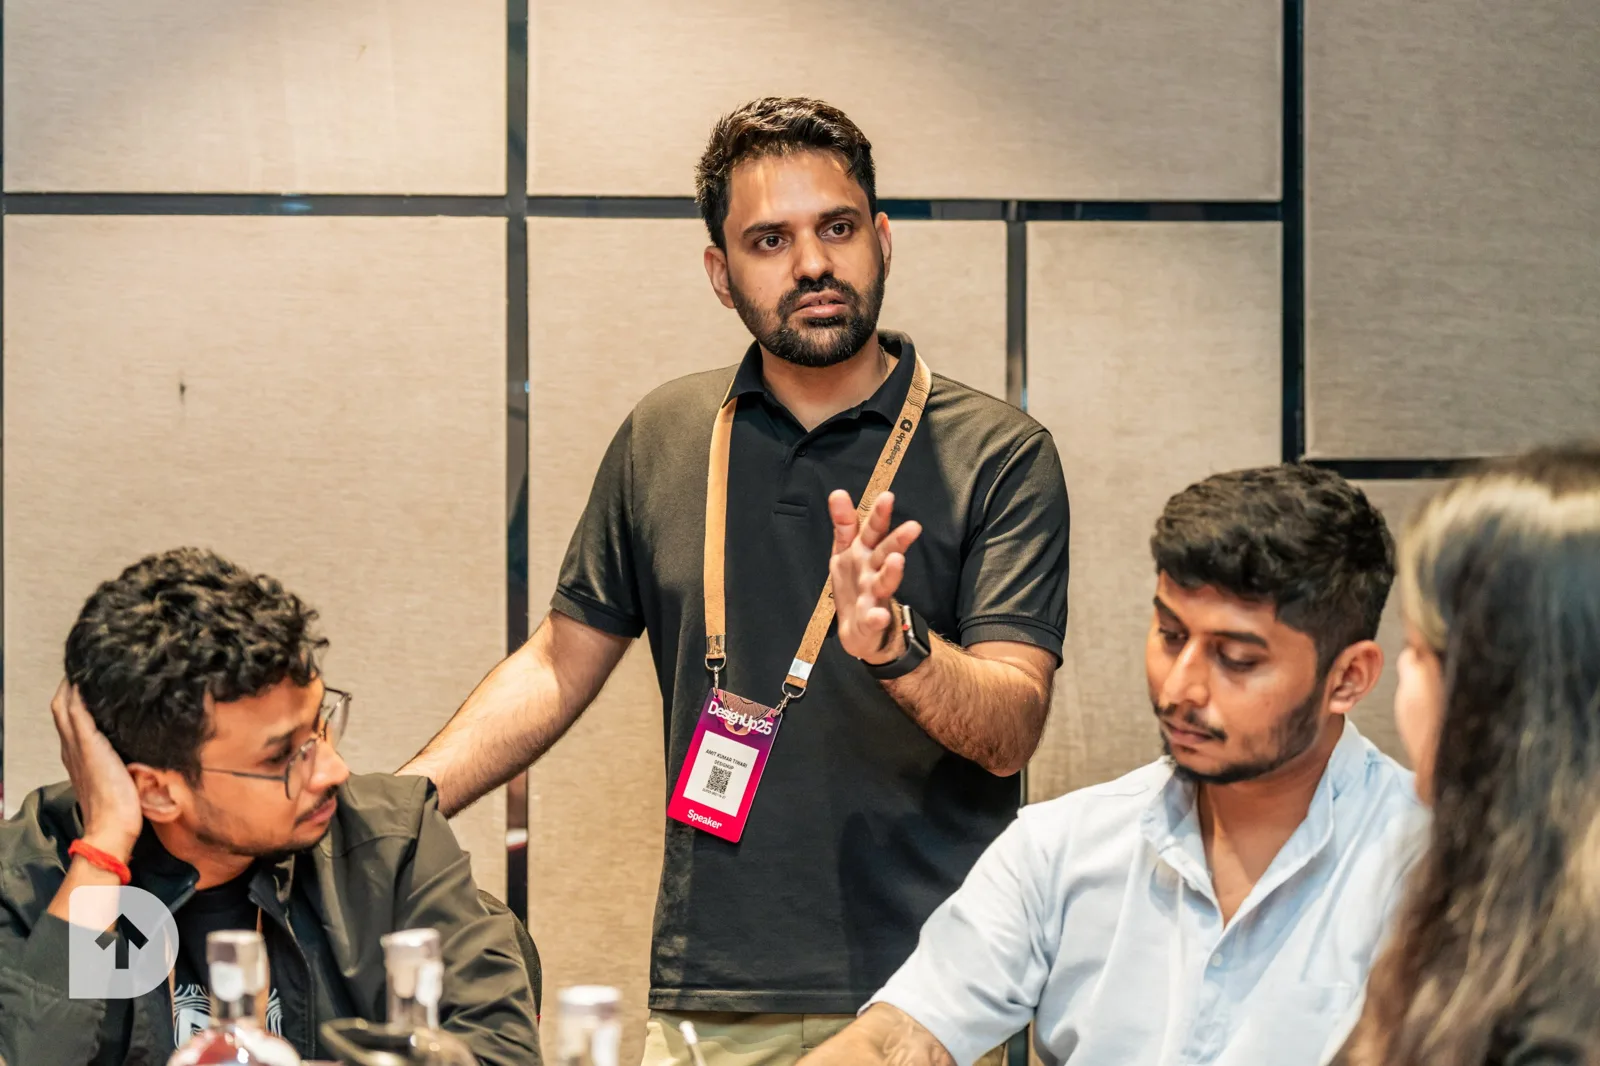
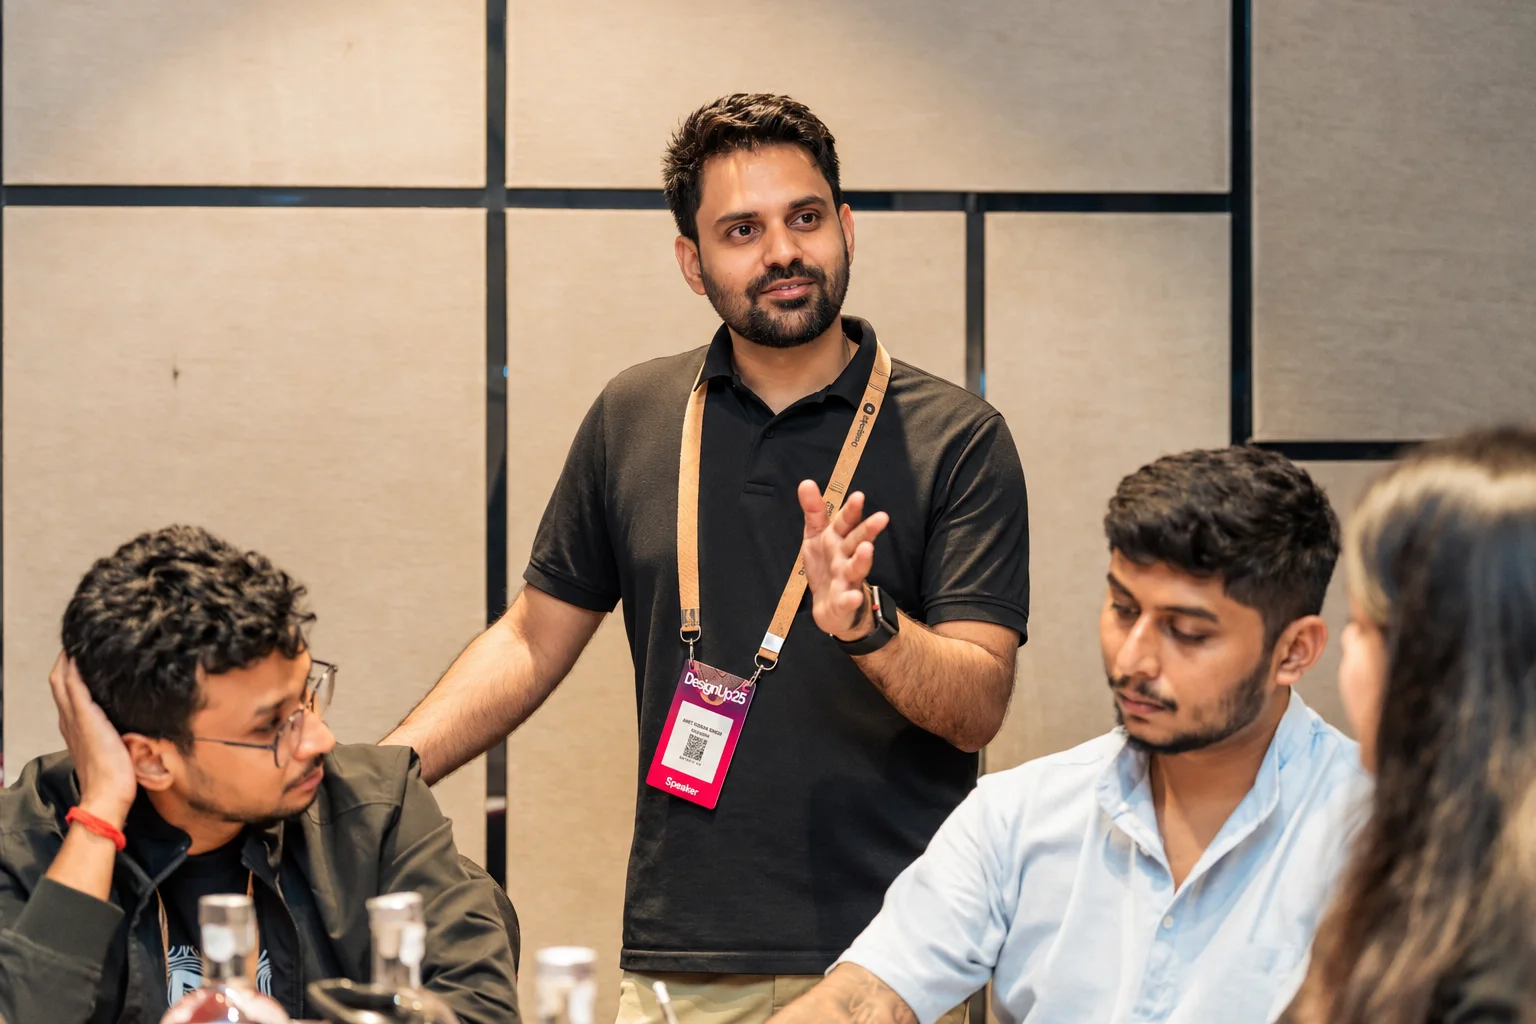
Case study short pages: animated preview, watch-video modal, NDA gate for AI Search; new DesignUp workshop photo
Claude-Session: https://claude.ai/code/session_019w2zt4LnTxjnuLeFmr6vDP

diff --git a/src/pages/PlaybackPage.tsx b/src/pages/PlaybackPage.tsx
@@ -1,4 +1,4 @@
-import { Fragment } from 'react'
+import { Fragment, useState } from 'react'
 import { Link, Navigate, useParams } from 'react-router-dom'
 import Mark, { markForCase } from '../components/marks/Marks'
 import Breadcrumb from '../components/ds/Breadcrumb'
@@ -9,6 +9,8 @@ import ProcessFlow from '../components/playback/ProcessFlow'
 import { TagList } from '../components/ds/Tag'
 import { caseStudies } from '../data/work'
 import { playbackById } from '../data/playbacks'
+import { films } from '../data/films'
+import VideoModal from '../components/ui/VideoModal'
 
 const Arrow = () => (
   <svg width="16" height="16" viewBox="0 0 16 16" fill="none" stroke="currentColor" strokeWidth="1.5" aria-hidden="true"><path d="M3 8h10M9 4l4 4-4 4" strokeLinecap="round" strokeLinejoin="round" /></svg>
@@ -20,9 +22,11 @@ export default function PlaybackPage() {
   const { id } = useParams<{ id: string }>()
   const cs = caseStudies.find(c => c.id === id)
   const pb = id ? playbackById(id) : undefined
+  const [watching, setWatching] = useState(false)
   if (!cs || !pb) return <Navigate to="/craft" replace />
 
   const detail = `/craft/${cs.id}/details`
+  const film = films[cs.id]
   const beats: [string, string][] = [
     ['What it is', pb.beats.about],
     ['The challenge', pb.beats.challenge],
@@ -46,7 +50,7 @@ export default function PlaybackPage() {
           </div>
           <h1 className="text-ink font-serif" style={{ fontSize: 'clamp(1.8rem, 3.5vw, 3.1rem)', lineHeight: 1.1, letterSpacing: '-0.02em', textWrap: 'balance' }}>{pb.headline}</h1>
           <p className="text-body-lg text-ink-2 mt-6 max-w-2xl">{pb.dek}</p>
-          <div className="mt-10"><CaseThumb id={cs.id} ratio="1800 / 1000" /></div>
+          <div className="mt-10"><CaseThumb id={cs.id} ratio="1800 / 1000" live /></div>
           <div className="mt-8 flex flex-wrap items-center gap-x-8 gap-y-4">
             <p className="text-label text-ink-3">{meta.join(' · ')}</p>
             {cs.tags && <TagList items={cs.tags.slice(0, 3)} label="Topics" />}
@@ -84,13 +88,14 @@ export default function PlaybackPage() {
       {/* One component with the footer: it stays at the bottom of the screen while scrolling, then settles into the footer. */}
       <div className="sticky bottom-0 z-30 border-t bg-bg" style={{ borderColor: 'var(--line-1)', paddingBottom: 'env(safe-area-inset-bottom, 0px)' }}>
         <div className="container-site py-3 md:py-4 flex items-center justify-between gap-4">
-          <p className="text-body-sm md:text-body text-ink-2 min-w-0">
-            <span className="sm:hidden">Want to explore the full story?</span>
-            <span className="hidden sm:inline">Want to get inside the messy process, explore the screens, and understand the design decisions?</span>
-          </p>
-          <Link to={detail} className="btn btn-primary !py-2 shrink-0 whitespace-nowrap">View Detailed Case Study<Arrow /></Link>
+          <p className="hidden md:block text-body text-ink-2 min-w-0">Want to get inside the messy process, explore the screens, and understand the design decisions?</p>
+          <div className="flex items-center gap-3 w-full md:w-auto md:shrink-0">
+            {film && <button type="button" onClick={() => setWatching(true)} className="btn btn-secondary !py-2 whitespace-nowrap flex-1 md:flex-none justify-center">Watch the video</button>}
+            <Link to={detail} className="btn btn-primary !py-2 whitespace-nowrap flex-1 md:flex-none justify-center"><span className="md:hidden">Detailed case study</span><span className="hidden md:inline">View Detailed Case Study</span><Arrow /></Link>
+          </div>
         </div>
       </div>
+      {watching && film && <VideoModal src={film.to} title={film.title} onClose={() => setWatching(false)} />}
     </article>
   )
 }

diff --git a/src/components/ds/CaseThumb.tsx b/src/components/ds/CaseThumb.tsx
@@ -8,7 +8,7 @@ const B = import.meta.env.BASE_URL
  *  While the link around it is hovered or keyboard-focused, a short animated preview of the prototype fades in over it;
  *  when interaction ends the preview fades out and is removed, so the cover is restored and nothing runs at rest.
  *  Reduced-motion visitors and touch devices keep the still cover. */
-export default function CaseThumb({ id, className = '', ratio = '1800 / 1000', compact = false, flush = false }: { id: string; className?: string; ratio?: string; compact?: boolean; /** No corner radius of its own: the parent card clips it. */ flush?: boolean }) {
+export default function CaseThumb({ id, className = '', ratio = '1800 / 1000', compact = false, flush = false, live = false }: { id: string; className?: string; ratio?: string; compact?: boolean; /** No corner radius of its own: the parent card clips it. */ flush?: boolean; /** The animated preview plays all the time, once the cover is on screen (still cover for reduced motion). */ live?: boolean }) {
   const t = thumbs[id]
   const root = useRef<HTMLDivElement>(null)
   const [mounted, setMounted] = useState(false)
@@ -16,6 +16,18 @@ export default function CaseThumb({ id, className = '', ratio = '1800 / 1000', c
   const timer = useRef<number>(0)
 
   useEffect(() => {
+    if (!live || !t) return
+    const el = root.current
+    if (!el || window.matchMedia('(prefers-reduced-motion: reduce)').matches) return
+    const io = new IntersectionObserver(([e]) => {
+      if (e.isIntersecting) { setMounted(true); requestAnimationFrame(() => requestAnimationFrame(() => setShown(true))); io.disconnect() }
+    }, { rootMargin: '120px' })
+    io.observe(el)
+    return () => io.disconnect()
+  }, [live, t])
+
+  useEffect(() => {
+    if (live) return
     const host = root.current?.closest('a')
     if (!host || !t) return
     const reduce = window.matchMedia('(prefers-reduced-motion: reduce)')
@@ -27,7 +39,7 @@ export default function CaseThumb({ id, className = '', ratio = '1800 / 1000', c
     host.addEventListener('pointerenter', enter); host.addEventListener('pointerleave', leave)
     host.addEventListener('focus', focus); host.addEventListener('blur', stop)
     return () => { host.removeEventListener('pointerenter', enter); host.removeEventListener('pointerleave', leave); host.removeEventListener('focus', focus); host.removeEventListener('blur', stop); window.clearTimeout(timer.current) }
-  }, [t])
+  }, [t, live])
 
   if (!t) return null
   const src = `${B}images/covers/${id}`
@@ -38,7 +50,7 @@ export default function CaseThumb({ id, className = '', ratio = '1800 / 1000', c
       {mounted && (
         <div className="absolute inset-0 transition-opacity duration-500 ease-out" style={{ opacity: shown ? 1 : 0 }}>
           <AnimThumb id={t.loop} />
-          {!compact && <span className="absolute left-4 top-4 z-10 inline-flex items-center gap-2 rounded-full bg-black/55 px-3 py-1.5 font-mono text-[0.6875rem] uppercase tracking-[0.12em] text-white backdrop-blur"><span className="h-1.5 w-1.5 rounded-full bg-[#C8F55A]" />Preview</span>}
+          {!compact && !live && <span className="absolute left-4 top-4 z-10 inline-flex items-center gap-2 rounded-full bg-black/55 px-3 py-1.5 font-mono text-[0.6875rem] uppercase tracking-[0.12em] text-white backdrop-blur"><span className="h-1.5 w-1.5 rounded-full bg-[#C8F55A]" />Preview</span>}
         </div>
       )}
     </div>

diff --git a/src/film/Player.tsx b/src/film/Player.tsx
@@ -16,6 +16,7 @@ export default function Player({ title, chapters, render, backTo, backLabel, sub
   })
   clockRef.current = clock
   const { t, playing, play, pause, seek } = clock
+  const embed = new URLSearchParams(window.location.search).get('embed') === '1'
   const [muted, setMuted] = useState(false)
   const [started, setStarted] = useState(false)
   const wrap = useRef<HTMLDivElement>(null)
@@ -51,9 +52,9 @@ export default function Player({ title, chapters, render, backTo, backLabel, sub
   const full = () => { const el = wrap.current?.parentElement; if (!el) return; if (document.fullscreenElement) void document.exitFullscreen(); else void el.requestFullscreen() }
 
   return (
-    <main id="main" className="min-h-screen" style={{ paddingTop: 'var(--header-h)' }}>
-      <div className="container-site pt-8 pb-16">
-        <div className="flex items-end justify-between gap-6 mb-6 flex-wrap">
+    <main id="main" className={embed ? '' : 'min-h-screen'} style={embed ? undefined : { paddingTop: 'var(--header-h)' }}>
+      <div className={embed ? '' : 'container-site pt-8 pb-16'}>
+        <div className={`flex items-end justify-between gap-6 mb-6 flex-wrap${embed ? ' hidden' : ''}`}>
           <div>
             <p className="text-overline text-ink-3 mb-2">Film · {length}</p>
             <h1 className="text-display-l text-ink">{title}</h1>
@@ -62,7 +63,7 @@ export default function Player({ title, chapters, render, backTo, backLabel, sub
           <Link to={backTo} className="link text-body-sm">{backLabel}</Link>
         </div>
 
-        <div className="relative rounded-3 overflow-hidden" style={{ background: C.bg, border: `1px solid ${C.line}` }}>
+        <div className={`relative overflow-hidden${embed ? '' : ' rounded-3'}`} style={{ background: C.bg, border: embed ? 0 : `1px solid ${C.line}` }}>
           <div ref={wrap} className="relative w-full" style={{ aspectRatio: '16 / 9', overflow: 'hidden', fontFamily: "'Geist Variable','Geist',system-ui,sans-serif", color: C.ink }}>
             <div style={{ position: 'absolute', left: 0, top: 0, width: 1920, height: 1080, transformOrigin: '0 0', transform: `scale(${scale})`, background: C.bg }}>
               {render(t)}
@@ -95,7 +96,7 @@ export default function Player({ title, chapters, render, backTo, backLabel, sub
             <button onClick={full} aria-label="Fullscreen" className="btn-reset" style={{ color: C.ink, fontSize: 13, fontFamily: mono }}>FULL</button>
           </div>
         </div>
-        <ol className="grid grid-cols-2 md:[grid-template-columns:repeat(var(--n),minmax(0,1fr))] gap-2 mt-4" style={{ ['--n' as string]: chapters.length }}>
+        <ol hidden={embed} className="grid grid-cols-2 md:[grid-template-columns:repeat(var(--n),minmax(0,1fr))] gap-2 mt-4" style={{ ['--n' as string]: chapters.length }}>
           {chapters.map(c => (
             <li key={c.at}><button onClick={() => { if (!started) setStarted(true); seek(c.at); if (!playing) play() }} className="w-full text-left rounded-2 px-3 py-2 text-caption" style={{ background: chapter.at === c.at ? 'rgb(var(--ink-rgb) / 0.08)' : 'transparent', border: '1px solid var(--line-1)', color: 'var(--ink-2)' }}>
               <span style={{ fontFamily: mono, fontSize: 11, color: 'var(--ink-3)' }}>{fmtT(c.at)}</span><br />{c.label}

diff --git a/src/components/case/NdaGate.tsx b/src/components/case/NdaGate.tsx
@@ -1,0 +1,40 @@
+import { useState, type ReactNode, type FormEvent } from 'react'
+import { Link } from 'react-router-dom'
+import { checkCode, isUnlocked, unlock } from '../../data/nda'
+import { useContact } from '../contact/ContactProvider'
+
+/** Asks for an access code before showing a detailed case study that is under NDA. */
+export default function NdaGate({ id, title, children }: { id: string; title: string; children: ReactNode }) {
+  const [open, setOpen] = useState(isUnlocked())
+  const [code, setCode] = useState('')
+  const [error, setError] = useState('')
+  const [busy, setBusy] = useState(false)
+  const { open: openContact } = useContact()
+  if (open) return <>{children}</>
+  const submit = async (e: FormEvent) => {
+    e.preventDefault()
+    setBusy(true); setError('')
+    const ok = await checkCode(code).catch(() => false)
+    setBusy(false)
+    if (ok) { unlock(); setOpen(true) } else setError('That code is not right. Check it and try again.')
+  }
+  return (
+    <section style={{ paddingTop: 'var(--header-h)' }}>
+      <div className="container-site py-20 md:py-28 max-w-xl">
+        <p className="text-overline text-ink-3 mb-5">Under NDA</p>
+        <h1 className="text-ink font-serif" style={{ fontSize: 'clamp(1.8rem, 3.5vw, 2.8rem)', lineHeight: 1.1, letterSpacing: '-0.02em' }}>{title}</h1>
+        <p className="text-body-lg text-ink-2 mt-5">The detailed case study is shared by access code. Enter the code you were given to read it.</p>
+        <form onSubmit={submit} className="mt-8 flex flex-col gap-3" noValidate>
+          <label htmlFor="nda-code" className="field-label">Access code</label>
+          <input id="nda-code" className="field" type="text" inputMode="text" autoComplete="off" autoCapitalize="characters" spellCheck={false} value={code} onChange={e => { setCode(e.target.value); setError('') }} aria-invalid={!!error} aria-describedby={error ? 'nda-err' : undefined} autoFocus />
+          {error && <p id="nda-err" role="alert" className="field-error">{error}</p>}
+          <div className="flex flex-wrap items-center gap-4 mt-2">
+            <button type="submit" className="btn btn-primary" disabled={busy || !code.trim()}>Open the case study</button>
+            <button type="button" className="btn btn-ghost" onClick={() => openContact({ topic: 'other', subject: `Access code request - ${title}`, message: `Hello, could I have the access code for the detailed "${title}" case study?` })}>Ask for the code</button>
+          </div>
+        </form>
+        <p className="mt-10"><Link to={`/craft/${id}`} className="link text-body-sm">← Read the short version</Link></p>
+      </div>
+    </section>
+  )
+}

diff --git a/src/App.tsx b/src/App.tsx
@@ -3,6 +3,9 @@ import { Suspense, lazy, useEffect } from 'react'
 import useRouteSeo from './seo/useRouteSeo'
 import { AnimatePresence, motion } from 'framer-motion'
 import Nav from './components/layout/Nav'
+import NdaGate from './components/case/NdaGate'
+import { gatedCases } from './data/nda'
+import { caseStudies } from './data/work'
 import Footer from './components/layout/Footer'
 import { BackToShort, NextCase } from './components/case/StoryLinks'
 import ScrollToTop from './components/ui/ScrollToTop'
@@ -92,11 +95,32 @@ function CaseDetail() {
   const { id } = useParams<{ id: string }>()
   const Page = ({ 'airline-app': AirlineStoryPage, engaze: EngazeStoryPage, 'sap-search': SAPSearchStoryPage, 'sap-agentic': SAPAgenticStoryPage } as Record<string, React.ComponentType>)[id ?? ''] ?? CaseStudyPage
   const own = Page === CaseStudyPage
-  return (
+  const body = (
     <div className="relative">
       <BackToShort id={id ?? ''} />
-      <Page />
+      <Suspense fallback={<div className="min-h-screen" aria-busy="true" />}><Page /></Suspense>
       {!own && <NextCase id={id ?? ''} />}
+    </div>
+  )
+  // Case studies under NDA ask for an access code first.
+  const cs = caseStudies.find(c => c.id === id)
+  if (id && gatedCases.includes(id) && cs) return <NdaGate id={id} title={cs.title}>{body}</NdaGate>
+  return body
+}
+
+/** The page frame. A film opened in the case-study modal (?embed=1) has no site header, footer or progress line. */
+function Shell() {
+  const embed = new URLSearchParams(useLocation().search).get('embed') === '1'
+  return (
+    <div className="bg-bg text-ink min-h-screen">
+      {!embed && <ScrollProgressLine />}
+      <ScrollToTop />
+      <LegacyHashRedirect />
+      {!embed && <Nav />}
+      <main id="main" tabIndex={-1} className="outline-none">
+        <AnimatedRoutes />
+      </main>
+      {!embed && <Footer />}
     </div>
   )
 }
@@ -160,16 +184,7 @@ export default function App() {
   return (
     <BrowserRouter>
       <ContactProvider>
-      <div className="bg-bg text-ink min-h-screen">
-        <ScrollProgressLine />
-        <ScrollToTop />
-        <LegacyHashRedirect />
-        <Nav />
-        <main id="main" tabIndex={-1} className="outline-none">
-          <AnimatedRoutes />
-        </main>
-        <Footer />
-      </div>
+      <Shell />
       </ContactProvider>
     </BrowserRouter>
   )

diff --git a/src/components/ui/VideoModal.tsx b/src/components/ui/VideoModal.tsx
@@ -1,0 +1,28 @@
+import { useEffect, useRef } from 'react'
+
+/** A dialog that plays a film. The film page is loaded in a frame in its embedded form (no site header or footer). */
+export default function VideoModal({ src, title, onClose }: { src: string; title: string; onClose: () => void }) {
+  const closeRef = useRef<HTMLButtonElement>(null)
+  useEffect(() => {
+    const prev = document.activeElement as HTMLElement | null
+    const prevOverflow = document.body.style.overflow
+    document.body.style.overflow = 'hidden'
+    closeRef.current?.focus()
+    const onKey = (e: KeyboardEvent) => { if (e.key === 'Escape') onClose() }
+    window.addEventListener('keydown', onKey)
+    return () => { window.removeEventListener('keydown', onKey); document.body.style.overflow = prevOverflow; prev?.focus() }
+  }, [onClose])
+  return (
+    <div role="dialog" aria-modal="true" aria-label={`${title}, film`} className="fixed inset-0 grid place-items-center p-4 md:p-8" style={{ zIndex: 'var(--z-modal, 80)' as unknown as number, background: 'rgb(0 0 0 / 0.78)' }} onMouseDown={e => { if (e.target === e.currentTarget) onClose() }}>
+      <div className="relative w-full" style={{ maxWidth: 'min(1180px, calc((100vh - 8rem) * 1.6))' }}>
+        <div className="flex items-center justify-between mb-3">
+          <p className="text-label text-white/80">{title} · film</p>
+          <button ref={closeRef} type="button" onClick={onClose} className="btn btn-secondary btn-sm">Close</button>
+        </div>
+        <div className="rounded-3 overflow-hidden" style={{ border: '1px solid var(--line-1)', background: '#0f1013' }}>
+          <iframe src={`${src}?embed=1`} title={`${title} film`} allow="autoplay; fullscreen" allowFullScreen className="block w-full" style={{ aspectRatio: '16 / 10.1', border: 0 }} />
+        </div>
+      </div>
+    </div>
+  )
+}

diff --git a/src/data/nda.ts b/src/data/nda.ts
@@ -1,0 +1,22 @@
+// Case studies behind an NDA gate. The detailed page asks for an access code before it shows anything.
+// This is a light gate: it keeps casual visitors out and is not a security boundary, because the page is still part of the site's code.
+// Only a salted hash of the code is kept here. To change the code, hash the new one (uppercase, no spaces or dashes) as sha256('amit-nda-v1' + code) and replace ACCESS_HASH.
+// Gated detail pages are left out of the sitemap and the prerendered pages (src/seo/site.ts).
+
+export const gatedCases: string[] = ['sap-search']
+
+export const SALT = 'amit-nda-v1'
[1 lines of base64/hex data omitted]
+
+export const normaliseCode = (s: string) => s.toUpperCase().replace(/[^A-Z0-9]/g, '')
+
+export async function checkCode(input: string): Promise<boolean> {
+  const data = new TextEncoder().encode(SALT + normaliseCode(input))
+  const buf = await crypto.subtle.digest('SHA-256', data)
+  const hex = Array.from(new Uint8Array(buf)).map(b => b.toString(16).padStart(2, '0')).join('')
+  return hex === ACCESS_HASH
+}
+
+const KEY = 'nda-unlocked'
+export const isUnlocked = (): boolean => { try { return sessionStorage.getItem(KEY) === '1' } catch { return false } }
+export const unlock = () => { try { sessionStorage.setItem(KEY, '1') } catch { /* the page stays open for this visit */ } }

diff --git a/src/seo/site.ts b/src/seo/site.ts
@@ -3,6 +3,7 @@ declare const __SITE_URL__: string
 // The runtime hook (useRouteSeo) and the build-time page generator (tools/seo/build.ts) both read this.
 import { playbacks } from '../data/playbacks'
 import { shortStories } from '../data/shortStories'
+import { gatedCases } from '../data/nda'
 import { caseStudies } from '../data/work'
 import { publishedStories, storySlug } from '../data/leadership'
 
@@ -59,7 +60,7 @@ const base: RouteMeta[] = [
 const projects: RouteMeta[] = playbacks.flatMap(p => {
   const cs = caseStudies.find(c => c.id === p.id)
   const out: RouteMeta[] = [{ path: `/craft/${p.id}`, title: T(p.headline), description: p.dek, image: `/og/${p.id}.jpg`, type: 'article' }]
-  if (cs) out.push({ path: `/craft/${p.id}/details`, title: T(`${cs.shortTitle}: the detailed case study`), description: cs.tagline, image: `/og/${p.id}.jpg`, type: 'article' })
+  if (cs && !gatedCases.includes(p.id)) out.push({ path: `/craft/${p.id}/details`, title: T(`${cs.shortTitle}: the detailed case study`), description: cs.tagline, image: `/og/${p.id}.jpg`, type: 'article' })
   return out
 })
 

diff --git a/src/data/films.ts b/src/data/films.ts
@@ -1,0 +1,6 @@
+/** Projects that have a film. The film plays in a modal from the short version of the case study. */
+export const films: Record<string, { to: string; title: string }> = {
+  'sap-agentic': { to: '/craft/sap-agentic/film', title: 'Agentic Order Confirmation' },
+  'sap-search': { to: '/craft/sap-search/film', title: 'AI-Powered Search' },
+  engaze: { to: '/craft/engaze/film', title: 'Engaze' },
+}
